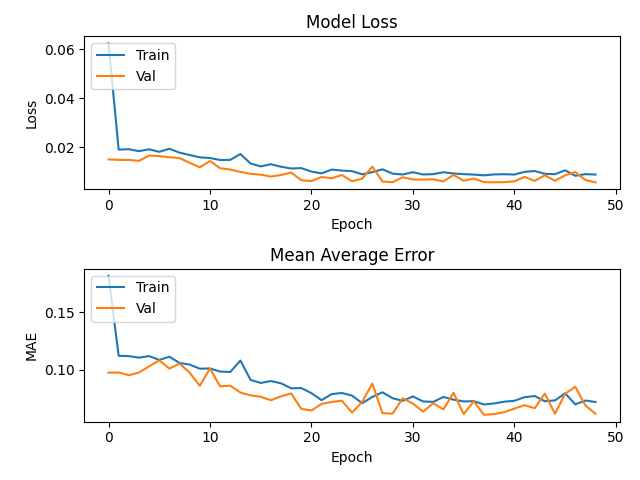
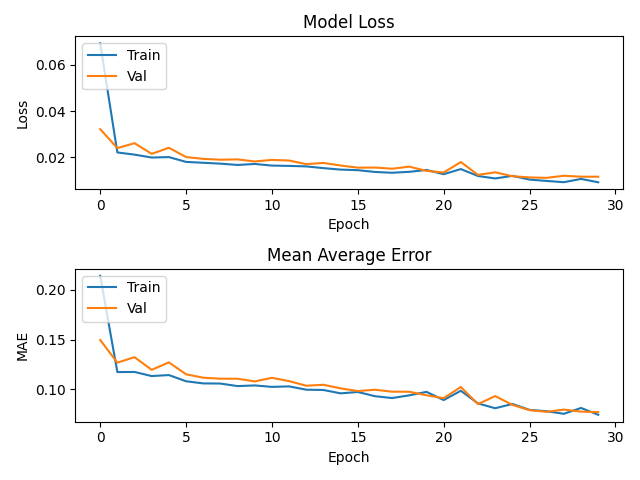
tweaked patience to 3

diff --git a/script.py b/script.py
@@ -100,7 +100,7 @@ def create_plot(history):
 def evaluate_model():
     model = create_model()
     best_params = do_grid_search()
-    early_stopping = EarlyStopping(monitor='val_loss', patience=10, mode='min', restore_best_weights=True)
+    early_stopping = EarlyStopping(monitor='val_loss', patience=3, mode='min', restore_best_weights=True)
     history = model.fit(features_train, labels_train, validation_split=0.20, epochs=best_params['epochs'], batch_size=best_params['batch_size'], callbacks=[early_stopping], verbose=0)
     res_mse, res_mae = model.evaluate(features_test, labels_test, verbose=0)
     print(f"MSE: {res_mse}\nMAE: {res_mae}")
